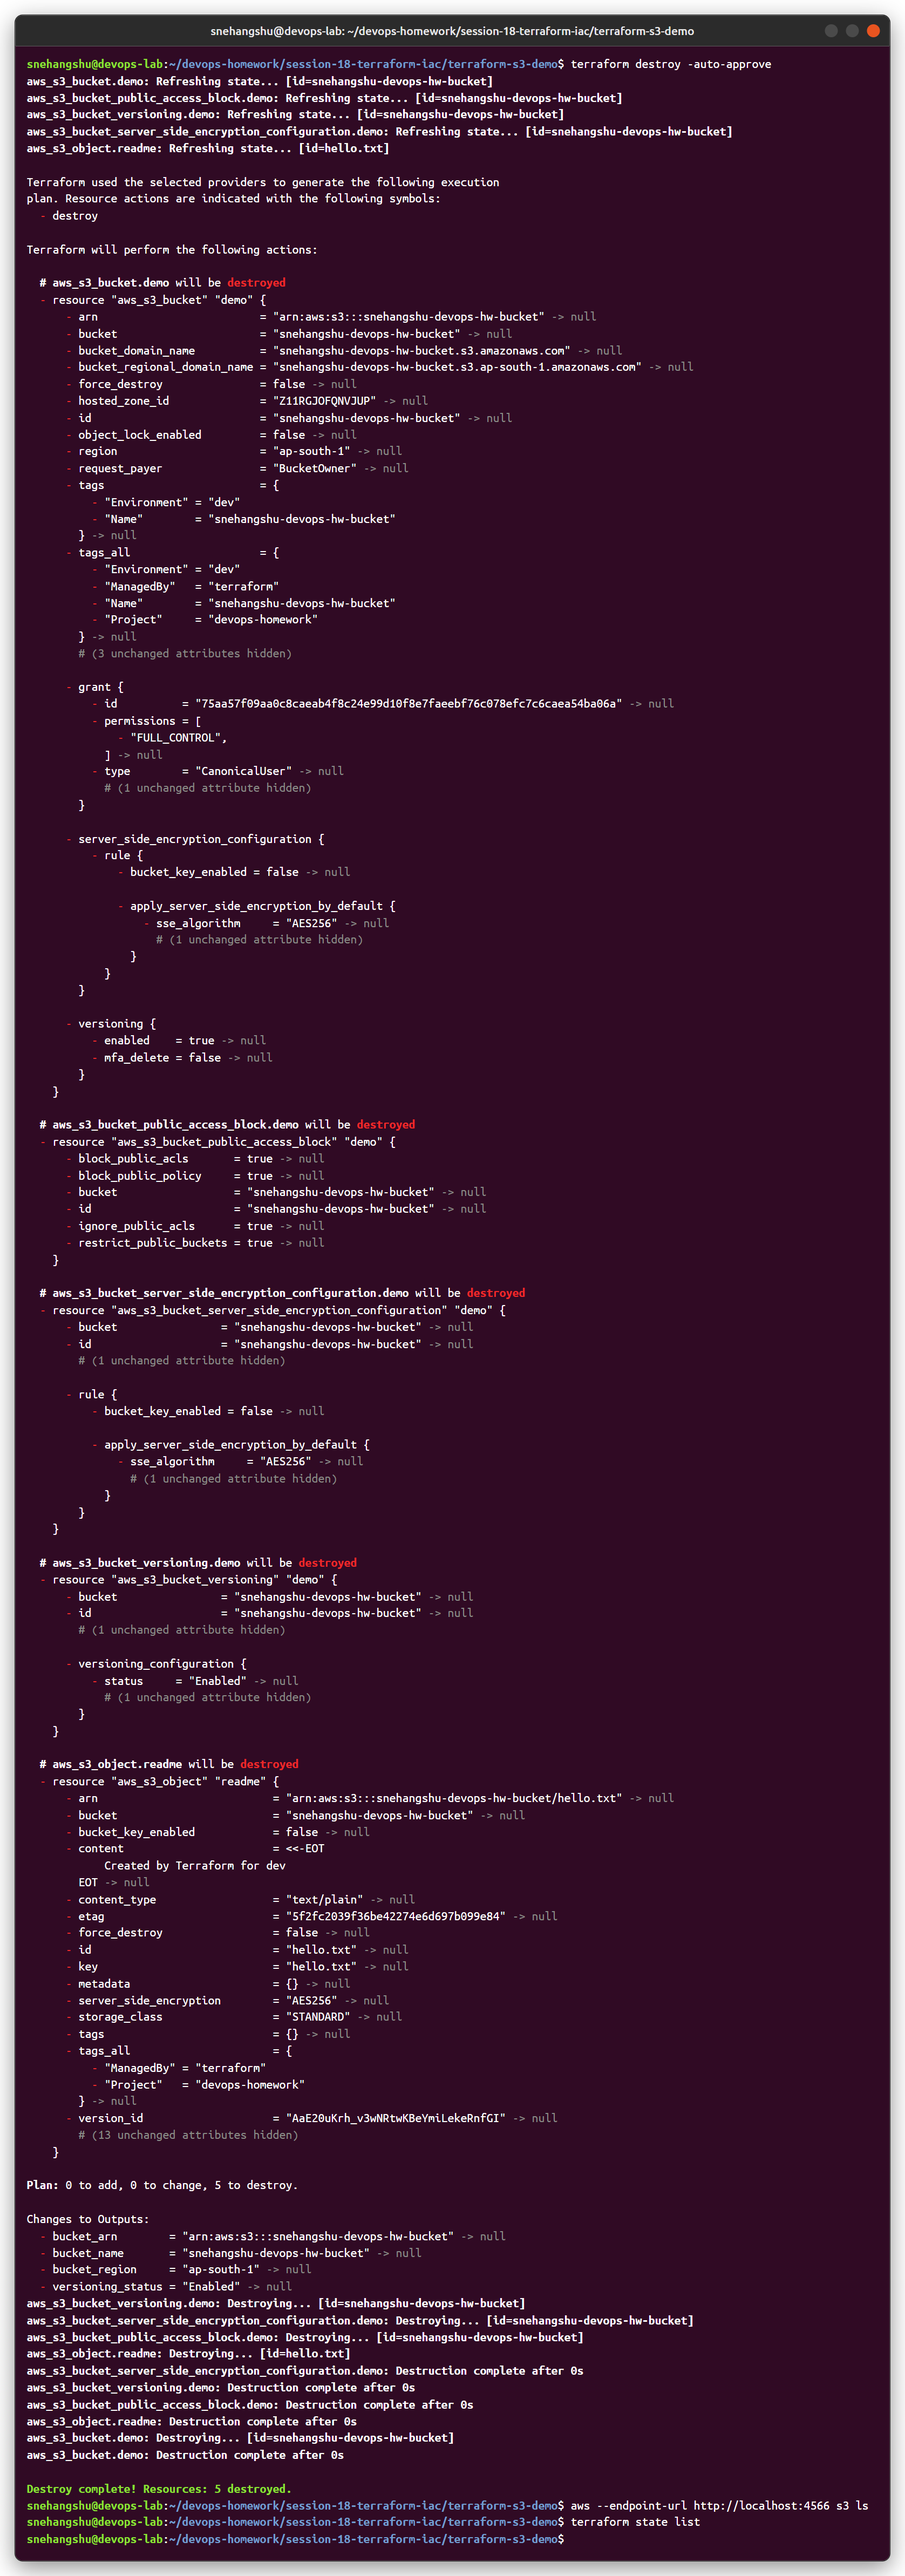
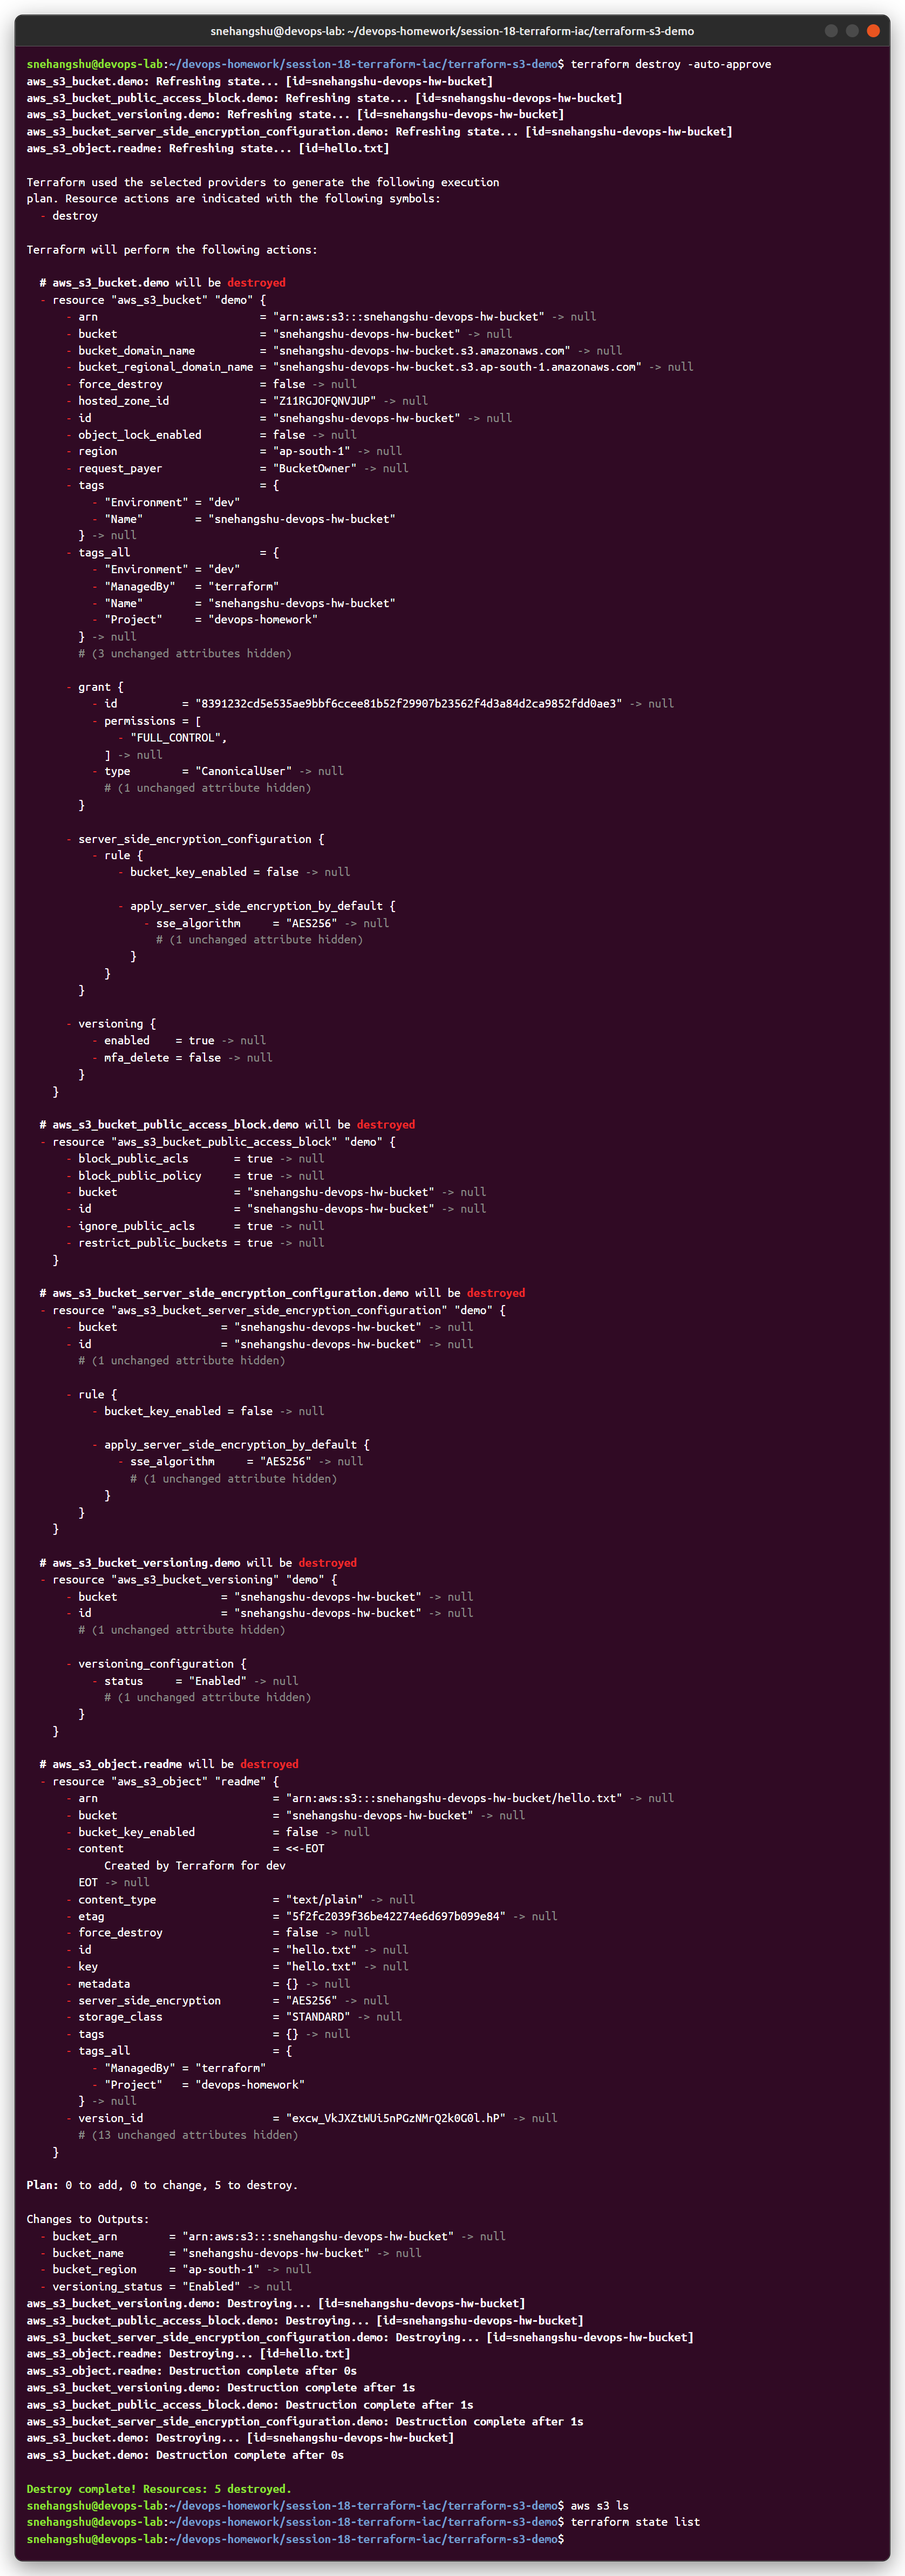
session 18: run terraform s3 demo on real aws

Changed region(s): [[0.3721, 0.9053, 0.5581, 0.9365], [0.186, 0.9053, 0.3411, 0.9365], [0.5891, 0.9053, 0.6202, 0.9365]]

diff --git a/session-18-terraform-iac/README.md b/session-18-terraform-iac/README.md
@@ -23,11 +23,13 @@ session-18-terraform-iac/
 
 Terraform v1.12.2, AWS provider 5.x.
 
-**Note about AWS:** I ran this against **LocalStack 4.4**, a local emulator of the AWS APIs, so no AWS account or cost was needed. Terraform talks to it exactly like it talks to AWS (same provider, same resources, same API calls), just with a different endpoint in [`provider.tf`](terraform-s3-demo/provider.tf). To use real AWS, remove the `endpoints`, `skip_*` and dummy key lines and run `aws configure`.
+Ran on a **real AWS account** (free plan), region `ap-south-1` (Mumbai). Terraform uses an IAM user `terraform-student` set up with `aws configure` - no keys in the code, see [`provider.tf`](terraform-s3-demo/provider.tf).
 
 ### Setup
 
-![localstack and files](screenshots/01-localstack-and-files.png)
+`aws sts get-caller-identity` shows the IAM user Terraform will run as, plus the project files.
+
+![aws account and files](screenshots/01-aws-account-and-files.png)
 
 ### `terraform init`
 
@@ -57,9 +59,13 @@ Shows what will change: **5 to add** (bucket, versioning, encryption, public acc
 
 ![show output](screenshots/06-show-output-verify.png)
 
+Same bucket in the AWS console (S3 → `snehangshu-devops-hw-bucket`):
+
+![console s3 bucket](screenshots/08-console-s3-bucket.png)
+
 ### `terraform destroy`
 
-All 5 resources removed. The bucket list and the state are now empty.
+All 5 resources removed (so nothing is left running/billing in the account). The bucket list and the state are now empty.
 
 ![destroy](screenshots/07-destroy.png)
 

diff --git a/session-18-terraform-iac/terraform-s3-demo/README.md b/session-18-terraform-iac/terraform-s3-demo/README.md
@@ -4,16 +4,17 @@ Creates an S3 bucket with Terraform: versioning, AES256 server-side encryption, 
 
 | File | Purpose |
 |---|---|
-| `provider.tf` | Terraform + AWS provider version, provider settings (LocalStack endpoint), default tags |
+| `provider.tf` | Terraform + AWS provider version, region, default tags |
 | `variables.tf` | Input variables (region, bucket name, environment, versioning flag) |
 | `terraform.tfvars` | Values for the variables |
 | `main.tf` | Resources: bucket, versioning, encryption, public access block, object |
 | `outputs.tf` | Bucket name, ARN, region, versioning status |
 
-> I don't have an AWS account set up, so the provider points to **LocalStack** (an AWS API emulator on `localhost:4566`) with dummy keys. Same code works on real AWS after removing the `endpoints` / `skip_*` lines and the dummy keys.
+> Runs on real AWS (`ap-south-1`). Credentials come from `aws configure` (IAM user, not root) - never put keys in `.tf` files.
 
 ```bash
-docker run -d --name localstack -p 4566:4566 localstack/localstack:4.4
+aws configure            # access key of the IAM user, region ap-south-1
+aws sts get-caller-identity
 terraform init
 terraform fmt
 terraform validate
